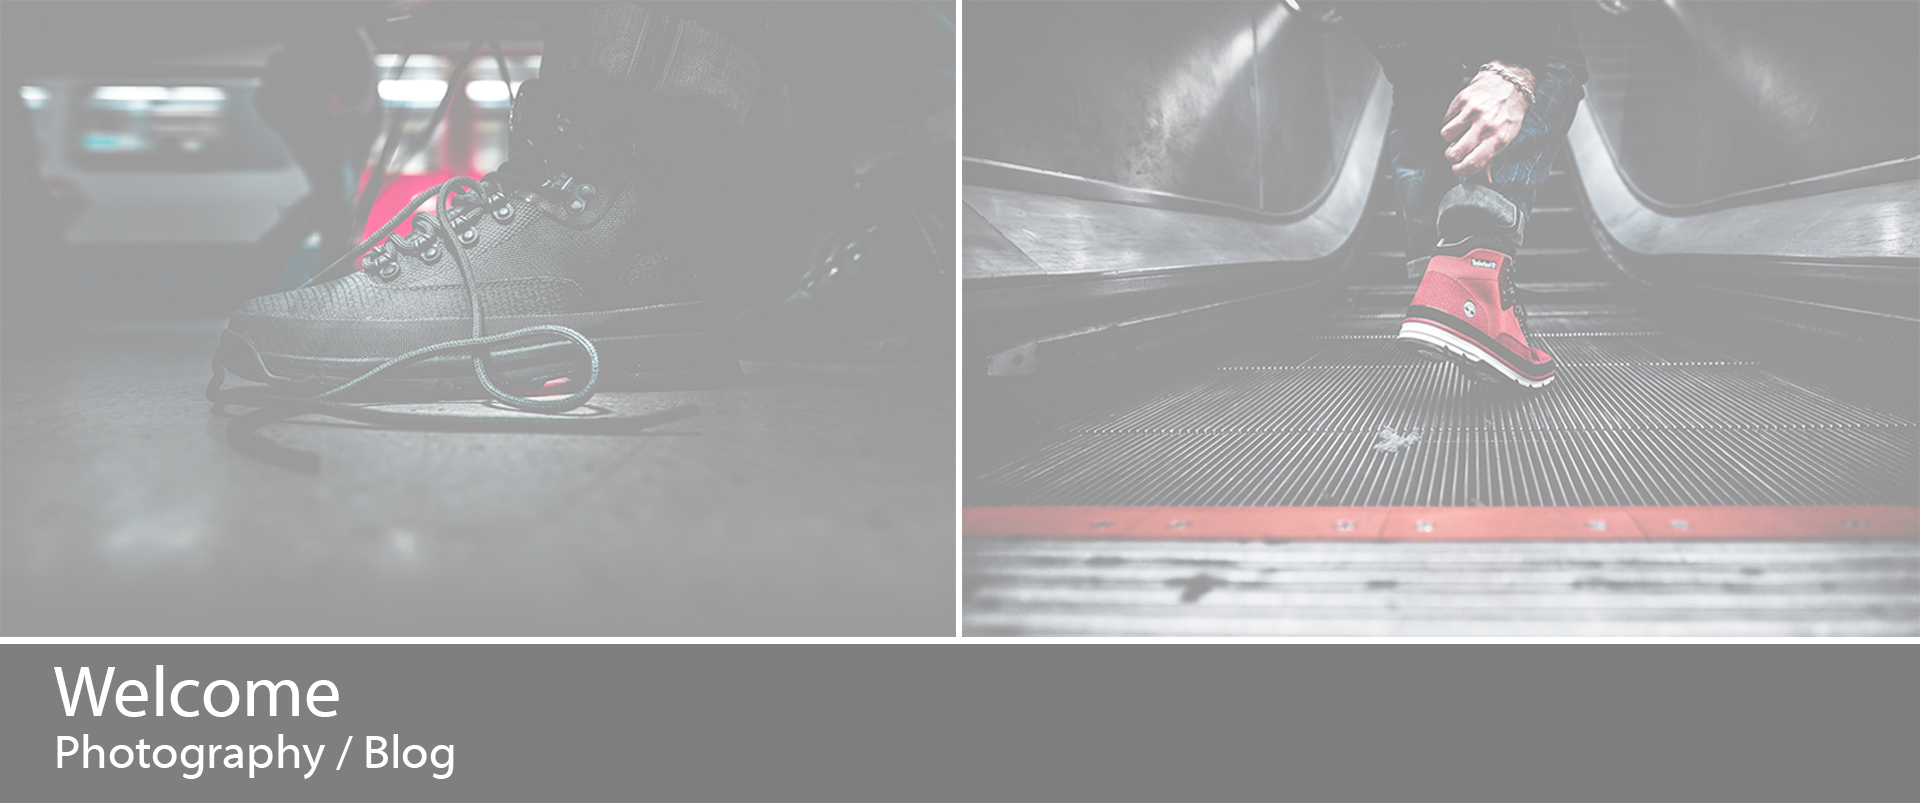
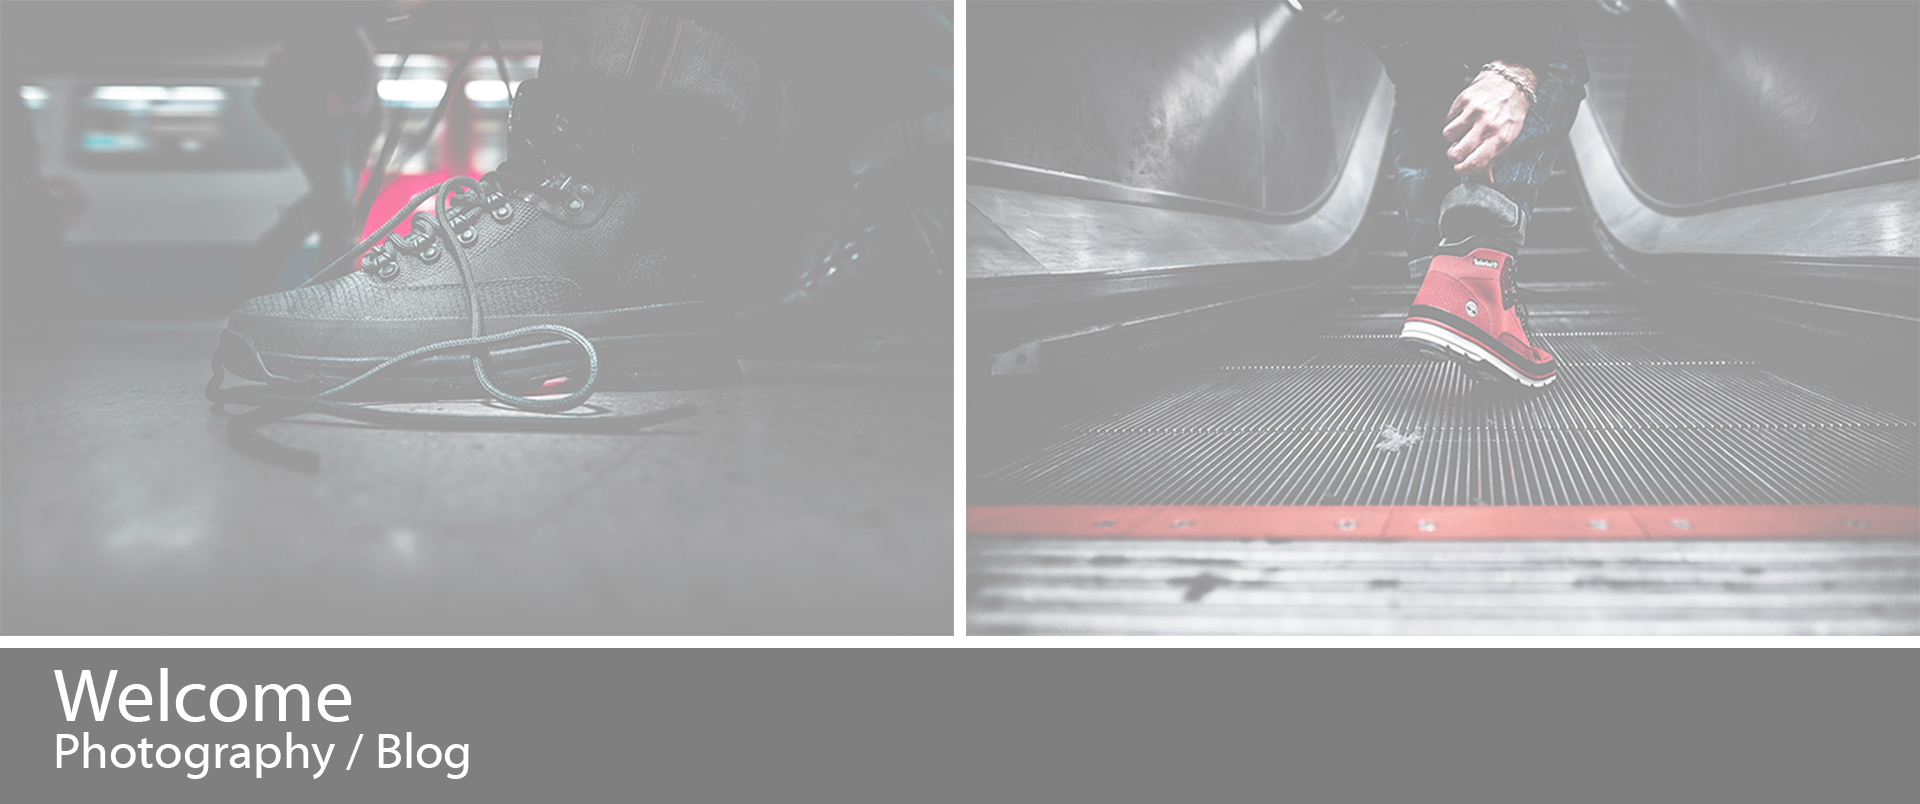
Updates Hero/ Added Media Queries
Managed to figure out how to add in @media values in order to allow the
page to respond at 500px or less.
So far so good- still a little jumpy but nothing that cant be cleaned
up.

diff --git a/index.html b/index.html
@@ -16,8 +16,10 @@
                 </div>
     </div>
 
+    <!--Responsive Image-->
+
     <div class="hero">
-                <img src="images/hero.jpg">
+                <img src="images/hero-updated.jpg">
 
 
     </div>
@@ -37,7 +39,7 @@
     <p>My name is Mr Whisper, and I am a London based photographer who re-imagines the cultural sterotypes through the use of imagery.
     I want to showcase my daily travels and discoveries, and show you a glimse into the strange little occurances that happen within everyday life in some of the most amazing cities in the world. The fascinating sense that everybody is just going on about their lives, not really taking a chance to actually think about why we are here in the first place and what our purpose actually is...</p>
 
-    <p>I have gained recogition through popular social media sites such as Instagram and Twitter, leading me onto to some amazing oportunities involving professional work with some of the biggest grossing companies throughout Europe and North America, Volkswagen and Timberland being my proudest!</p>
+    <p>I have gained recogition through popular social media sites such as Instagram and Twitter, leading me onto some amazing oportunities involving professional work with some of the biggest grossing companies throughout Europe and North America, Volkswagen and Timberland being my proudest!</p>
 
     <p>My main aim with this website is to produce content that I know you'll love as much as I enjoy creating it! Follow me as I take you on a journey throughout the world!
     </div>

diff --git a/css/style.css b/css/style.css
@@ -1,5 +1,5 @@
 img{
-	max-width: 100%;
+   max-width: 100%;
 }
 
 /*Grey bar in which Logo will Sit*/
@@ -7,7 +7,7 @@ img{
 .top-bar{
 	    display: flex;
 	    max-width: 100%;
-	}
+}
 
 .grey-background{
 	            width: 100%;
@@ -21,12 +21,12 @@ img{
 }
 
 .logo{
-      width: 20%;
-      height: 80px;
-      float: left;
-      margin-top: 15;
-      margin-bottom: 5;
-      margin-left: 40;
+     width: 20%;
+     height: 80px;
+     float: left;
+     margin-top: 15;
+     margin-bottom: 5;
+     margin-left: 40;
 }
 
 
@@ -35,7 +35,7 @@ img{
 
 .hero{
 	 height: 500px;
-	 margin-top: 97.5;
+	 margin-top: 101;
 	 margin-right: -8;
 	 margin-left: -8;
 	 
@@ -45,13 +45,13 @@ img{
 
 .about-image{
 	        height: 500px;
-	        margin-top: 200;
+	        margin-top: 190;
 	        margin-left: 45;
 	        margin-right: 45;
 }
 
 .header{
-	   margin-top: 500;
+	   margin-top: 470;           /*Had to make separate container*/
 	   margin-left: 43;
 	   font-family: Myriad Web Pro;
 	   font-size: 1.500em;
@@ -60,7 +60,7 @@ img{
 
 
 .text-container{
-               margin-top: 48;
+               margin-top: -5;
                margin-left: 43;
                margin-right: 37;
 	           font-family: Myriad Web Pro;
@@ -73,9 +73,25 @@ img{
 
 
 
-@media screen and (min-width: 320px){
+@media screen and (max-width: 500px){
 
+.grey-background{
+	            height: 43px;
 }
+
+
+.header{
+
+       font-size: 1.125em;43
+
+
+
+.text-container{
+    
+    font-size: 0.750em;
+    
+    }
+
 
 
 
